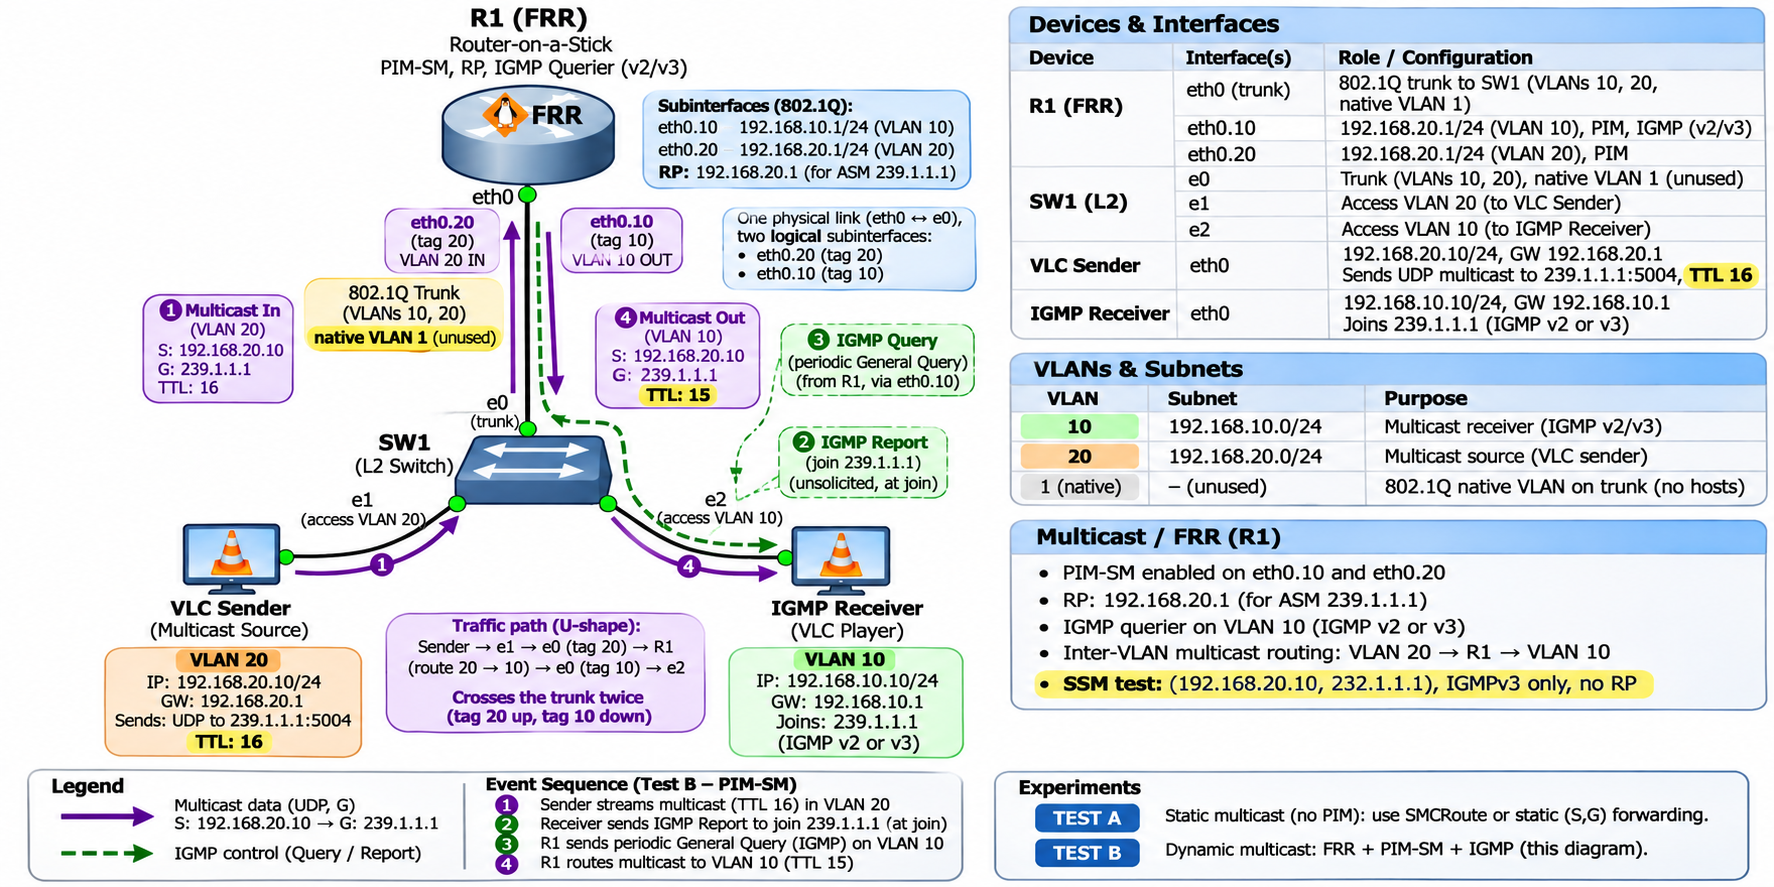
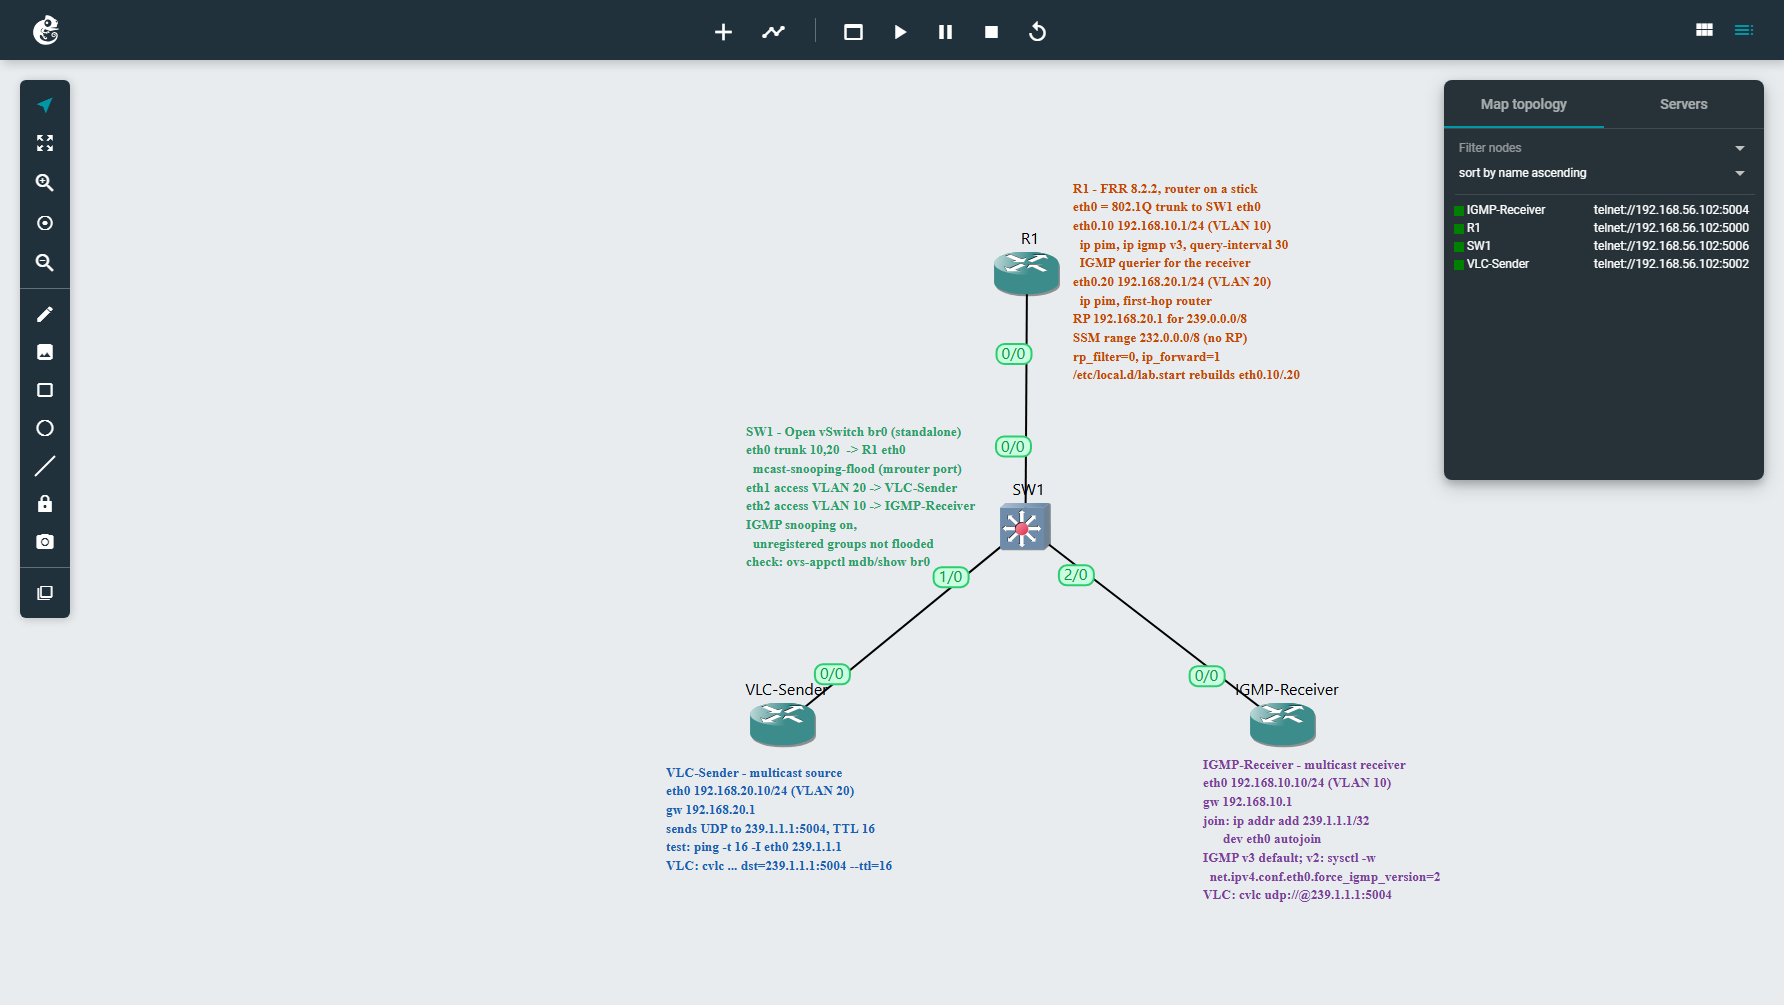
VLAN-Multicast-OVS: add per-node notes (notes.sh) and replace topology image with GNS3 screenshot

diff --git a/topology/VLAN-Multicast-OVS/README.md b/topology/VLAN-Multicast-OVS/README.md
@@ -17,11 +17,9 @@ The lab runs on the GNS3 server on the Ubuntu VM (`192.168.56.102:3080`) as proj
 
 ## Topology
 
-![Inter-VLAN multicast topology](topology.png)
+![VLAN-Multicast-OVS lab running in GNS3 with per-node notes](topology.png)
 
-The diagram shows SW1 as a generic L2 switch with ports `e0`, `e1`, `e2`. On Open vSwitch they are `eth0`, `eth1`, `eth2`.
-
-> **The diagram has one typo.** In the *Devices & Interfaces* table, `eth0.10` shows `192.168.20.1/24`. The correct address is **`192.168.10.1/24`**, as in the left side of the diagram.
+The screenshot shows the running project in the GNS3 web UI. Each node has a note with its addresses, VLANs, role and test commands; [notes.sh](notes.sh) adds them. The original design called SW1's ports `e0`, `e1`, `e2`; on Open vSwitch they are `eth0`, `eth1`, `eth2`. The web UI labels the cable ends by adapter number, so `1/0` on SW1 is eth1.
 
 ### Nodes
 
@@ -62,6 +60,7 @@ VPCS can't send or join multicast, so both hosts must be Linux hosts.
 1. In a new project, add **R1** from the **FRR** template, **SW1** from the **Open vSwitch** template, and two more **FRR** nodes named **VLC-Sender** and **IGMP-Receiver**.
 2. Cable everything as in the links table, using the exact `ethX` ports.
 3. Start all nodes. Without KVM, the FRR nodes take about a minute to boot.
+4. Optional: run [notes.sh](notes.sh) from Git Bash or Linux to put a text note beside each node, with its addresses, VLANs, role and test commands. It needs only `curl` and `perl`, and it's safe to re-run: it replaces its own old notes. Set `GNS3=<server IP>` or `PROJECT_NAME=<name>` if yours differ.
 
 > **Turn off auto-close** if you drive the lab from scripts or the API: right-click the project → **Edit project** → clear **Close the project when the last client leaves**. Otherwise GNS3 closes the project and stops every node when no browser is connected.
 
@@ -177,9 +176,9 @@ sysctl -w net.ipv4.conf.eth0.force_igmp_version=0   # back to the default (v3)
 
 Check unicast first. From the receiver, `ping 192.168.20.10` should get replies through R1.
 
-## 5. Test B: PIM-SM (the diagram)
+## 5. Test B: PIM-SM
 
-The four steps from the diagram's event sequence:
+The test follows four steps:
 
 **① and ② The receiver joins.** On IGMP-Receiver:
 
